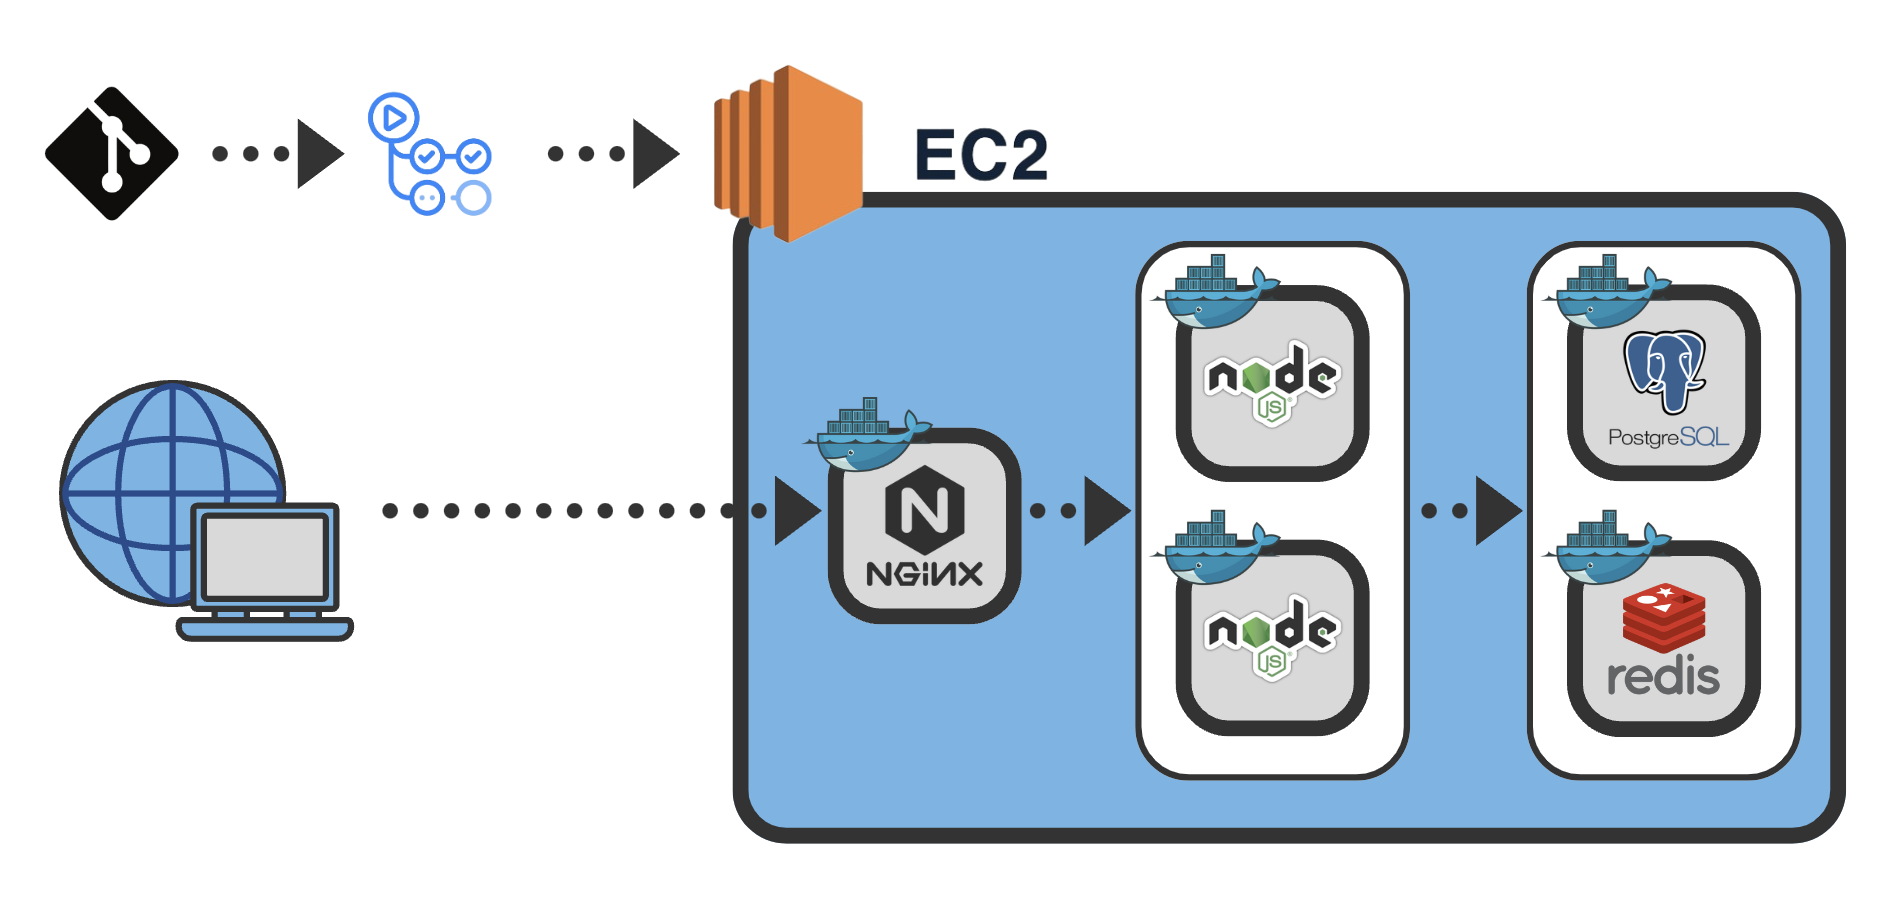
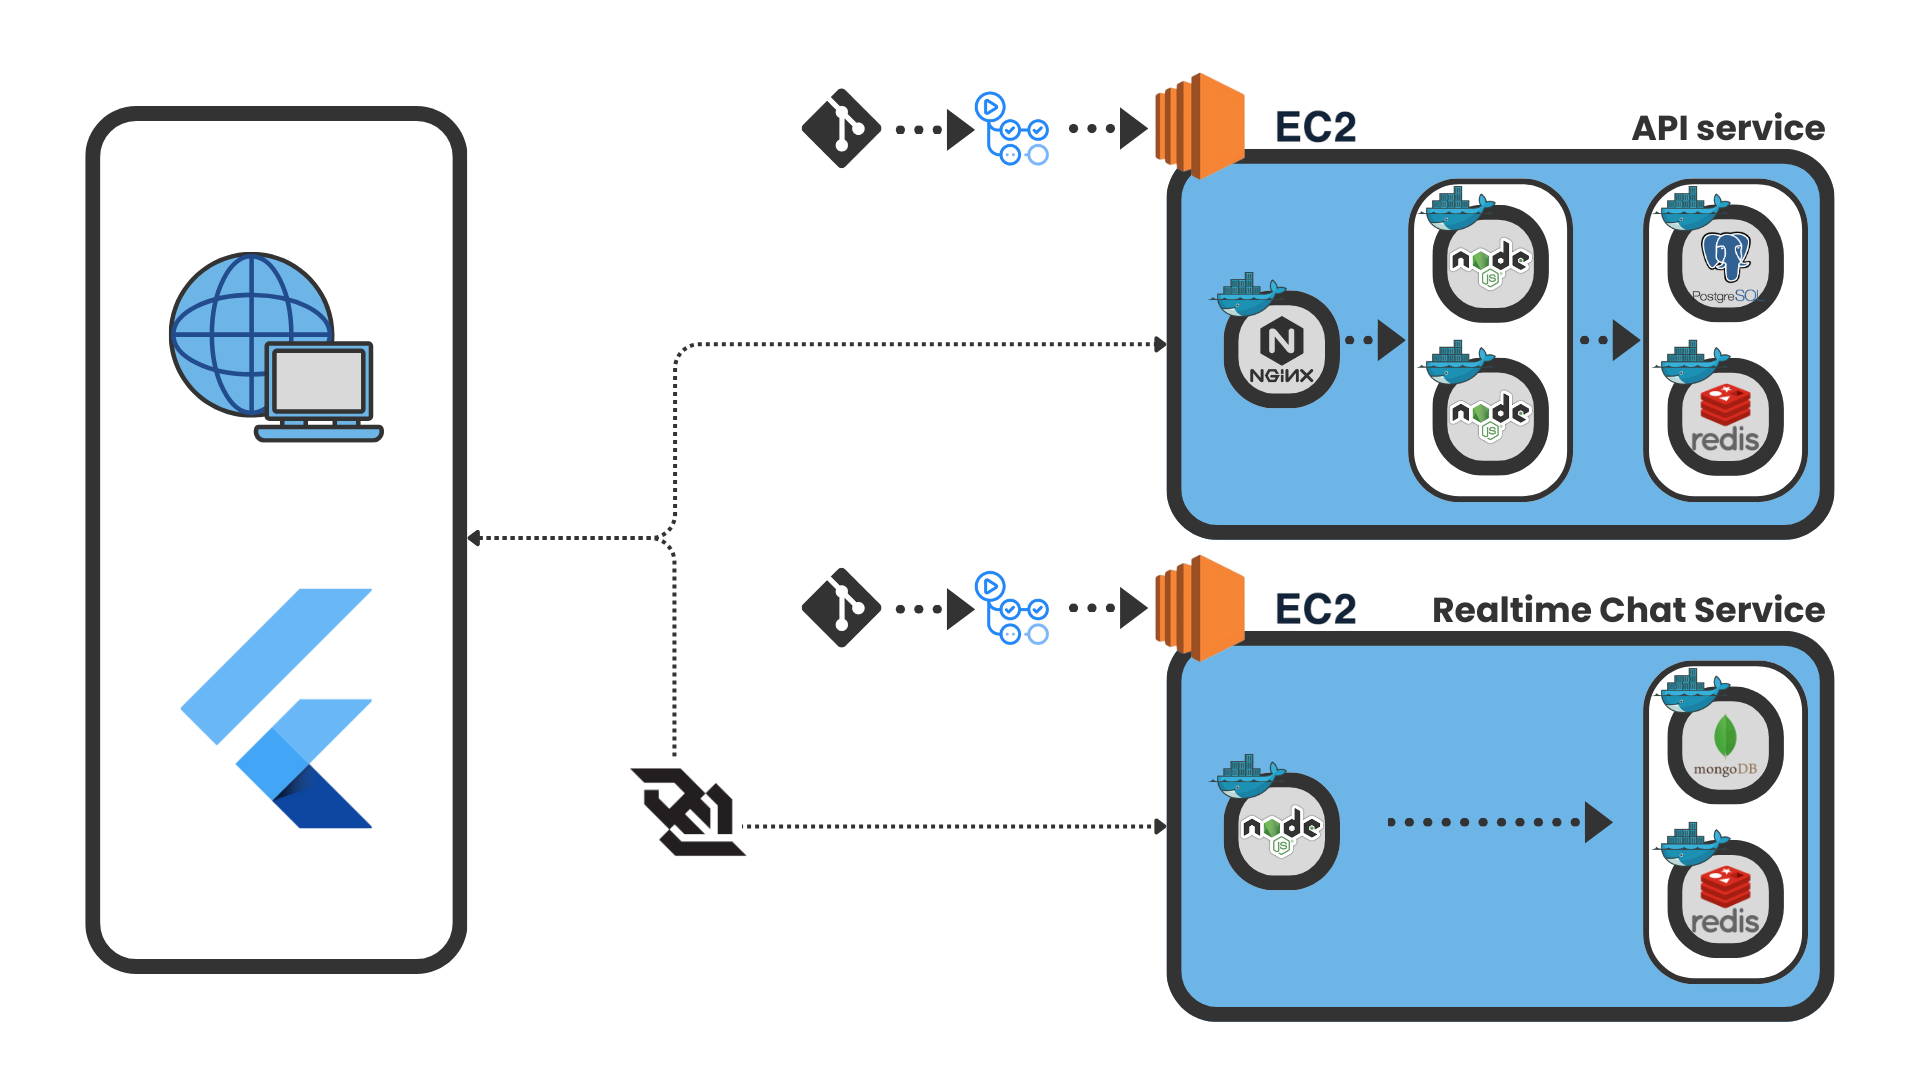
updated readme

diff --git a/README.md b/README.md
@@ -1,1 +1,3 @@
 ![ARCH](./metadata/arch.png)
+
+Link to real time chat repository: [Real Time Chat](https://github.com/aradbm/swapit-chat-service)
